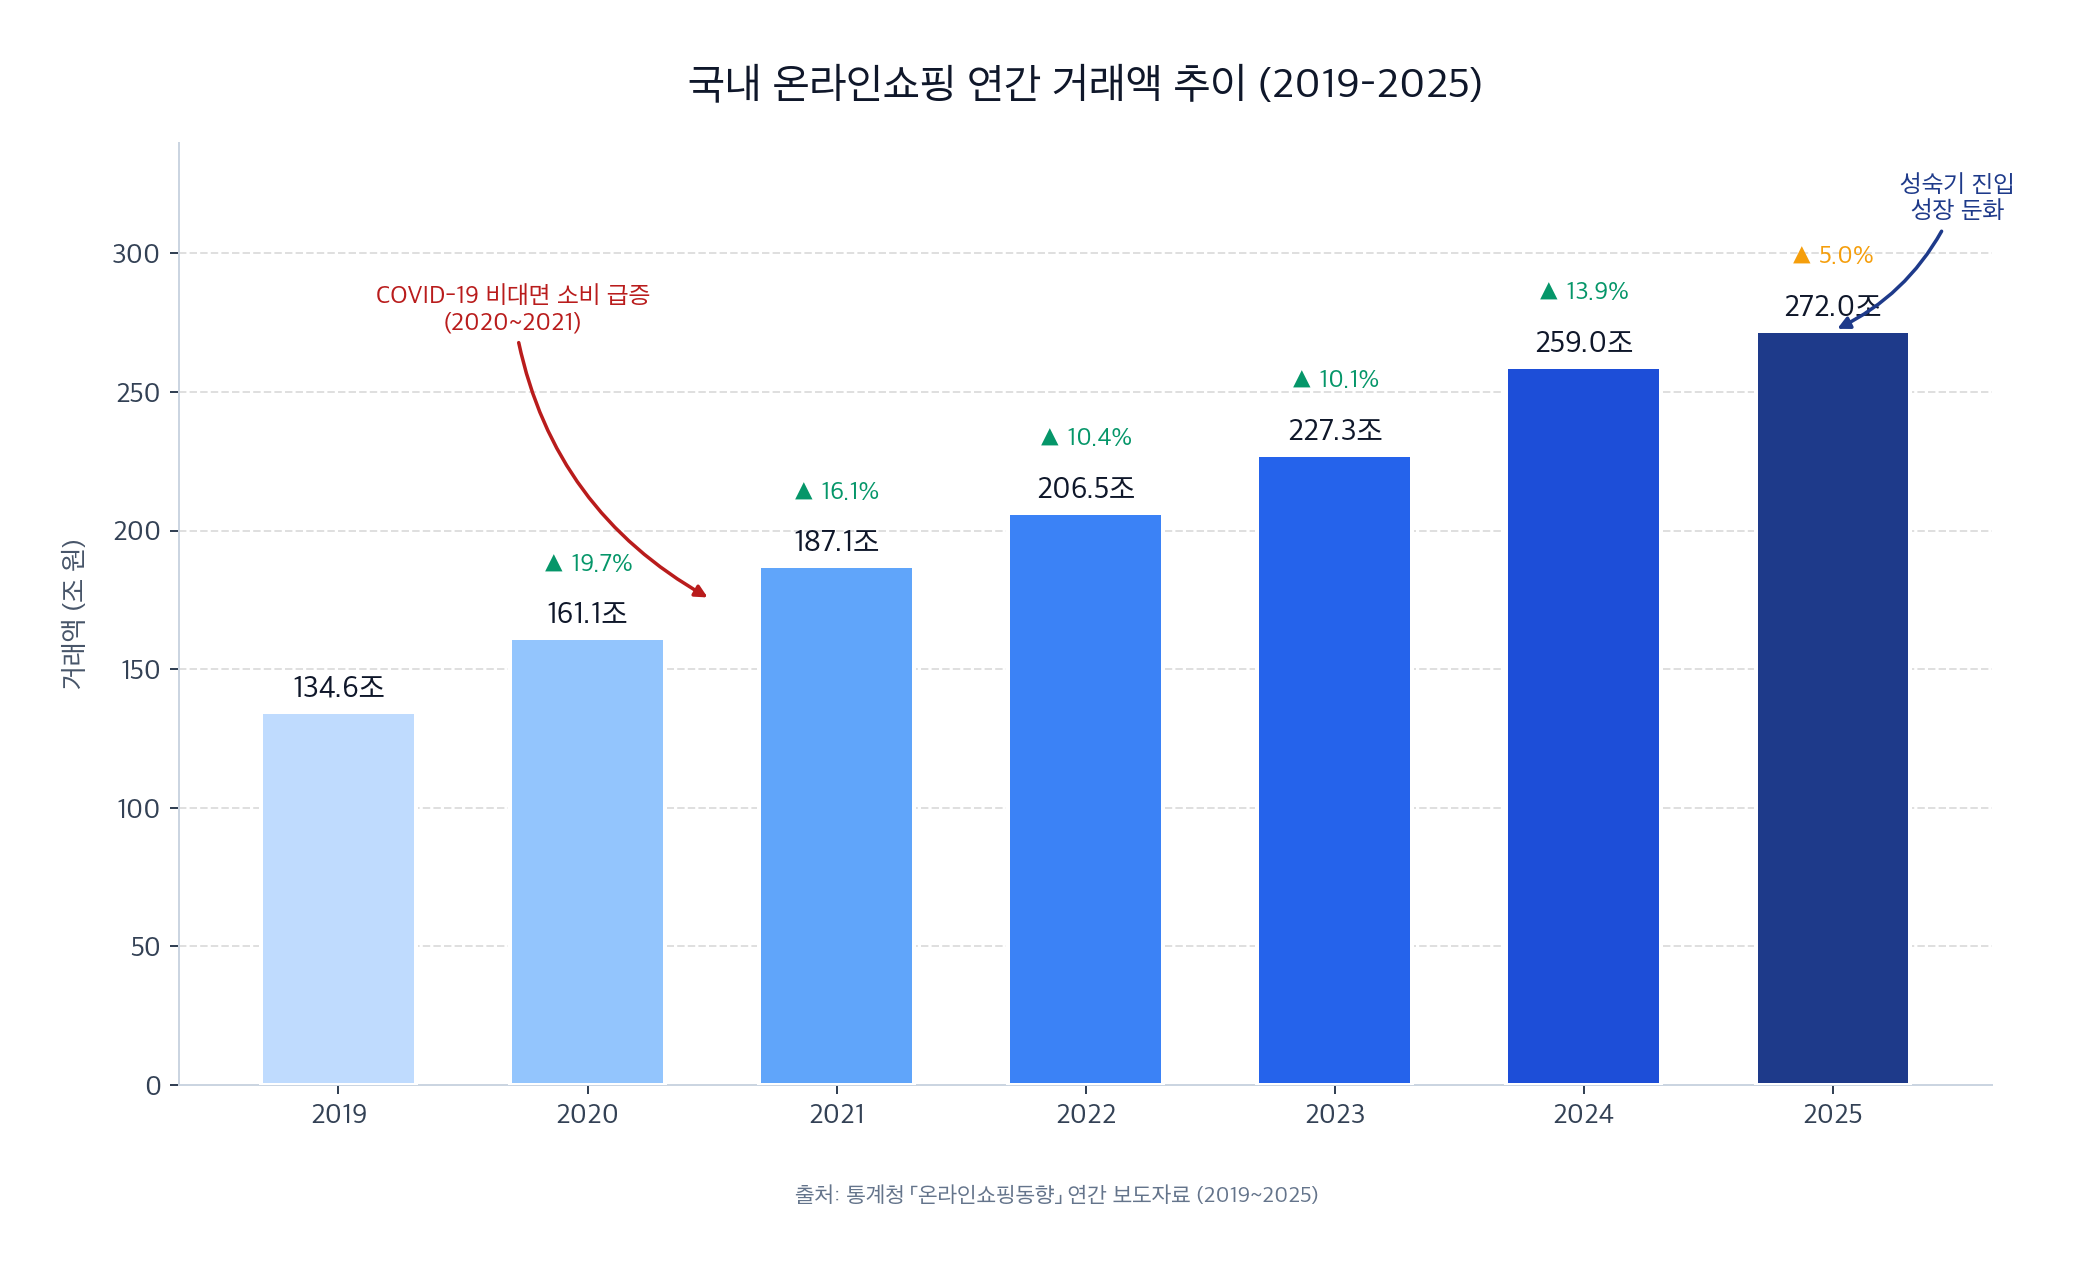
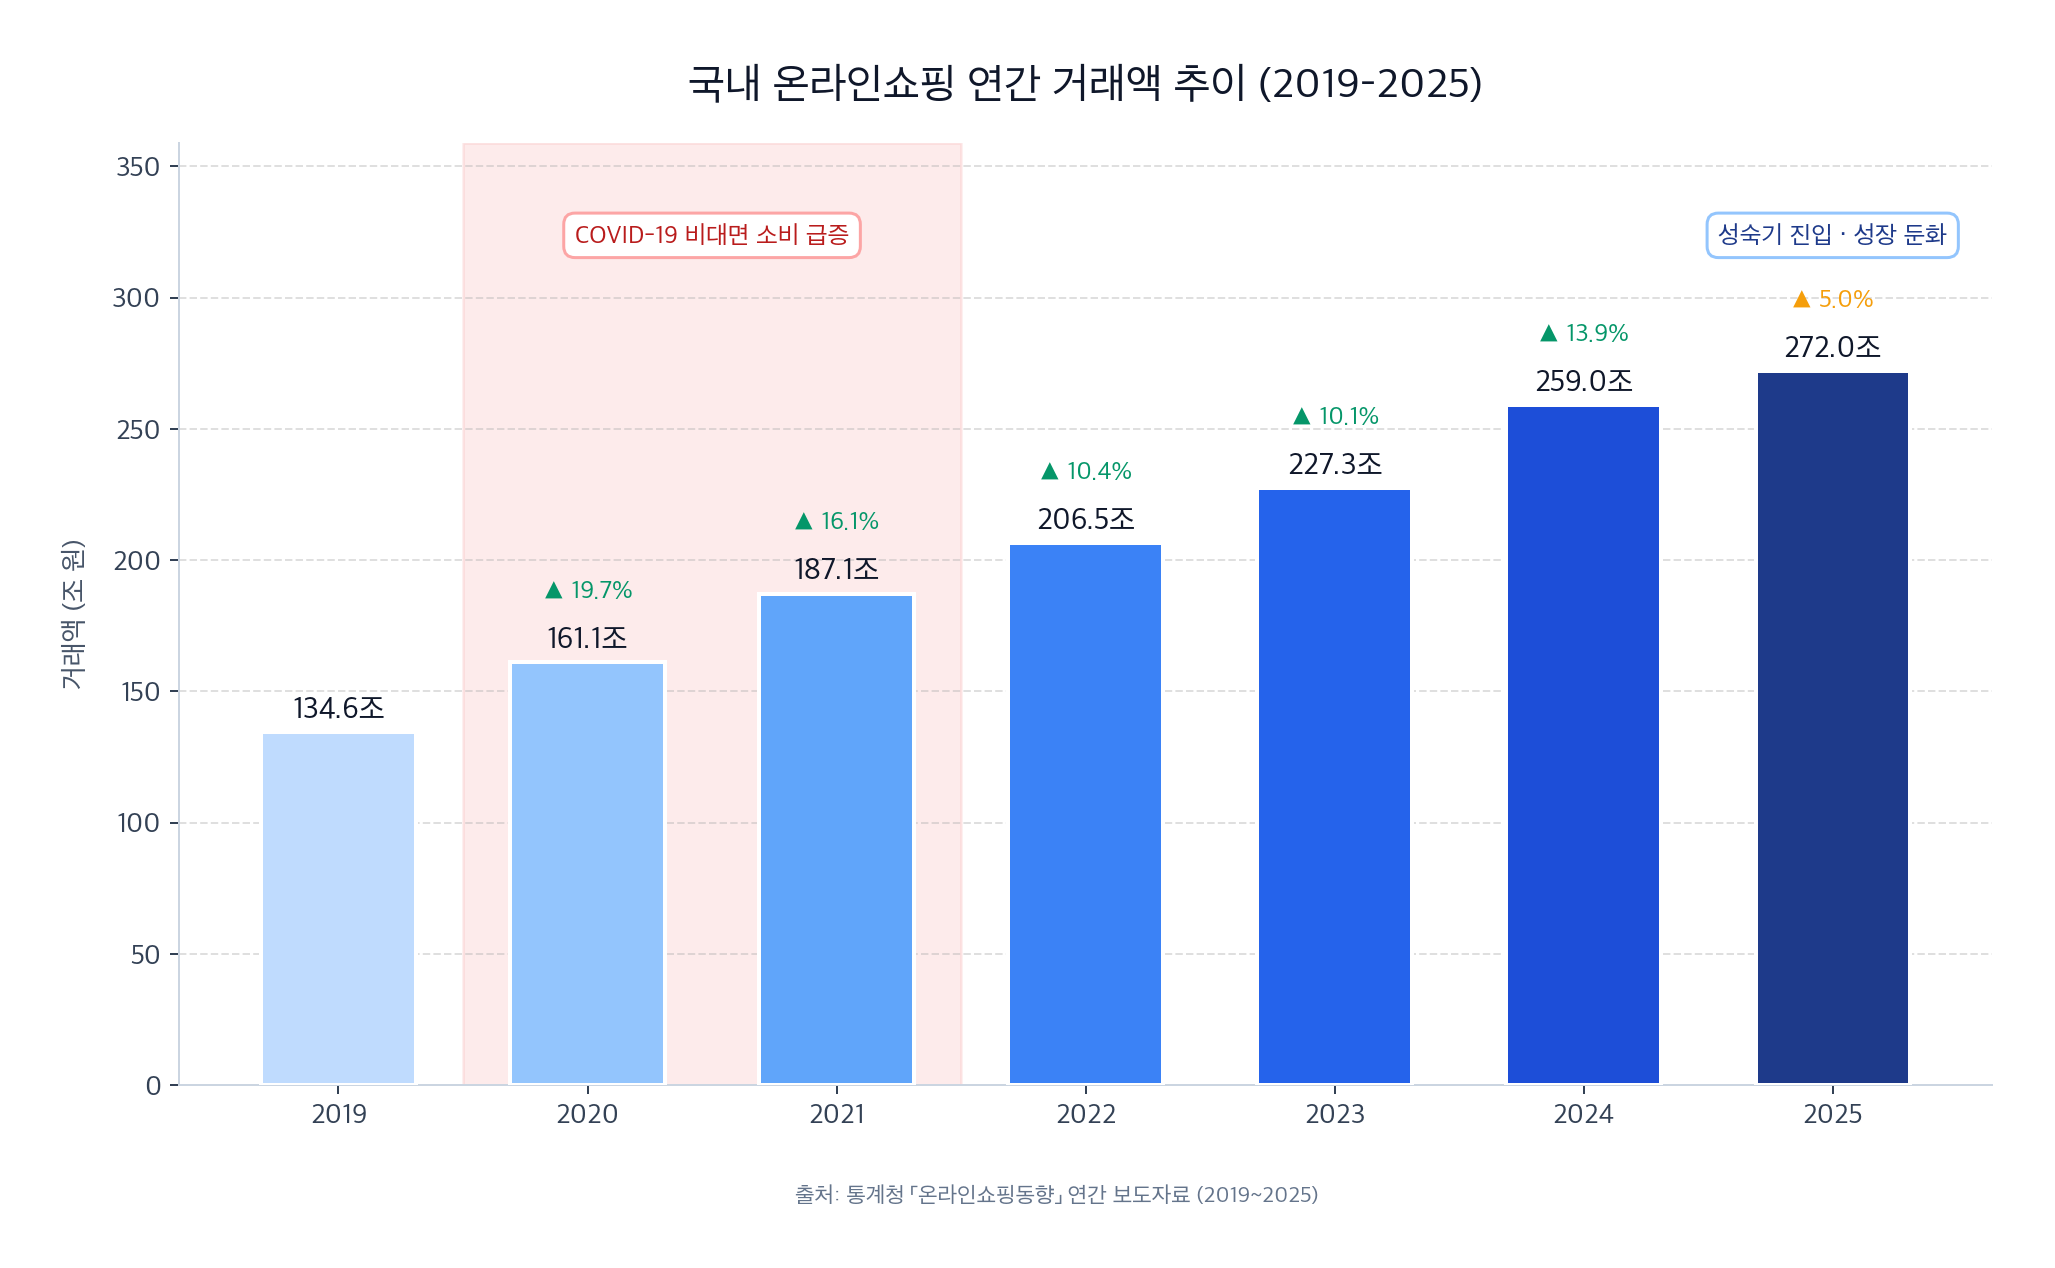
docs(proposal): clean up chart annotations and add domain intro
두 가지 개선:

1) 거래액 막대 차트의 주석 렌더링 문제 해결
   - 화살표(annotate with arrow)가 값 라벨과 인접 바를 가로질러
     어수선하게 보이던 문제를 제거한다.
   - COVID-19 주석: 2020~2021 구간에 연한 핑크 axvspan 배경을 깔고,
     상단에 둥근 테두리 텍스트 박스를 띄워 '어디' 와 '무엇' 을 분리.
   - 성숙기 진입 주석: 2025 바 상단에 동일한 스타일의 파란 테두리
     텍스트 박스로 정리. 화살표 제거.
   - ylim 상한을 1.25x -> 1.32x 로 상향해 상단 박스 공간 확보.

2) §1.1 이커머스 도메인 도입부 신설 (1.1.0)
   - 독자가 바로 '시장 규모' 수치로 진입하기 전에, 이커머스가
     무엇인지/어떻게 분류되는지/본 프로젝트의 스코프가 어디인지
     순서대로 풀어 설명한다.
   - 협의·광의 정의 + 거래 주체 4분류(B2C/B2B/C2C/B2B2C) 및 채널
     형태 5분류를 표로 제시.
   - 프로젝트 스코프를 B2C·B2B2C 채널의 규제 민감 카테고리
     (건기식·화장품·다이어트) + 숏폼 3종 플랫폼으로 명시적 한정.
   - 상세 자료는 research/01_domain_definition.md 로 링크.

diff --git a/scripts/make_ecommerce_growth.py b/scripts/make_ecommerce_growth.py
@@ -74,7 +74,7 @@ def main() -> None:
     )
 
     max_val = max(values)
-    ax.set_ylim(0, max_val * 1.25)
+    ax.set_ylim(0, max_val * 1.32)
 
     for i, (bar, v) in enumerate(zip(bars, values)):
         ax.text(
@@ -99,38 +99,37 @@ def main() -> None:
             color=accent,
         )
 
-    # 코로나19 기간 강조
-    ax.annotate(
-        "COVID-19 비대면 소비 급증\n(2020~2021)",
-        xy=(1.5, 175),
-        xytext=(0.7, 280),
+    # COVID-19 비대면 소비 급증 — 2020~2021 구간 배경 음영 + 상단 라벨
+    ax.axvspan(0.5, 2.5, alpha=0.10, color="#EF4444", zorder=0)
+    ax.text(
+        1.5, max_val * 1.19,
+        "COVID-19 비대면 소비 급증",
         ha="center", va="center",
-        fontsize=10,
+        fontsize=10, fontweight="bold",
         color="#B91C1C",
-        fontweight="bold",
-        arrowprops=dict(
-            arrowstyle="-|>",
-            color="#B91C1C",
-            connectionstyle="arc3,rad=0.25",
-            lw=1.4,
+        bbox=dict(
+            boxstyle="round,pad=0.45",
+            facecolor="white",
+            edgecolor="#FCA5A5",
+            linewidth=1.2,
         ),
+        zorder=5,
     )
 
-    # 성숙기 진입 주석
-    ax.annotate(
-        "성숙기 진입\n성장 둔화",
-        xy=(6, 272),
-        xytext=(6.5, 320),
+    # 성숙기 진입 · 성장 둔화 — 2025 상단 라벨
+    ax.text(
+        6, max_val * 1.19,
+        "성숙기 진입 · 성장 둔화",
         ha="center", va="center",
-        fontsize=10,
+        fontsize=10, fontweight="bold",
         color="#1E3A8A",
-        fontweight="bold",
-        arrowprops=dict(
-            arrowstyle="-|>",
-            color="#1E3A8A",
-            connectionstyle="arc3,rad=-0.2",
-            lw=1.4,
+        bbox=dict(
+            boxstyle="round,pad=0.45",
+            facecolor="white",
+            edgecolor="#93C5FD",
+            linewidth=1.2,
         ),
+        zorder=5,
     )
 
     ax.set_title(

diff --git a/docs/proposal/01_problem_definition.md b/docs/proposal/01_problem_definition.md
@@ -6,6 +6,24 @@
 
 ## 1.1 산업·도메인 배경
 
+### 1.1.0 이커머스란 무엇인가 — 정의와 본 프로젝트의 스코프
+
+**이커머스(e-commerce)** 는 인터넷·모바일 등 **디지털 채널을 매개로 상품 또는 서비스를 거래하는 모든 상행위**를 말한다. 협의로는 _주문·결제_ 라는 거래 사건 자체를 의미하지만, 실제 산업은 **상품 기획 → 콘텐츠 제작 → 검색·노출 → 광고·마케팅 → 구매·결제 → 배송·CS → 리뷰·재구매**로 이어지는 전 가치사슬(end-to-end value chain)을 포괄한다.
+
+국내 이커머스는 거래 주체와 채널 형태에 따라 다음과 같이 분류된다.
+
+| 분류 축 | 유형 | 대표 사례 |
+|---------|------|-----------|
+| 거래 주체 | **B2C** (기업 → 소비자) | 쿠팡 · 11번가 · 아마존 |
+| | **B2B** (기업 간) | 알리바바 · 이지웰비즈 |
+| | **C2C** (개인 간) | 당근 · 번개장터 |
+| | **B2B2C** (플랫폼 중개) | 네이버 스마트스토어 · 무신사 |
+| 채널 형태 | 종합몰 · 전문몰(버티컬) · 소셜커머스 · **라이브커머스** · 메타커머스 | 쿠팡 · 무신사 · 카카오톡 선물하기 · 네이버 쇼핑라이브 · 다나와 |
+
+본 프로젝트는 이 중 **B2C · B2B2C 채널에서 유통되는 건강기능식품 · 화장품 · 다이어트 상품**, 그 중에서도 **숏폼 동영상 플랫폼(YouTube Shorts · Instagram Reels · TikTok)으로 노출되는 광고** 에 초점을 둔다. 이 스코프를 벗어나는 영역(예: B2B 산업재·중고 거래 플랫폼·오프라인 연계 O2O)은 본 기획서 범위 밖이다.
+
+> 🔎 **상세 레퍼런스** — 거래 주체별/채널별 전체 분류, 가치사슬 11개 레이어(L1 소싱~L11 재구매), 이해관계자×레이어 페인포인트 매트릭스는 [`docs/research/01_domain_definition.md`](../research/01_domain_definition.md) 에 정리되어 있다.
+
 ### 1.1.1 이커머스 시장 규모 — 6년간 2배 성장
 
 ![국내 온라인쇼핑 연간 거래액 추이 2019-2025](../../assets/diagrams/ecommerce_growth.png)
